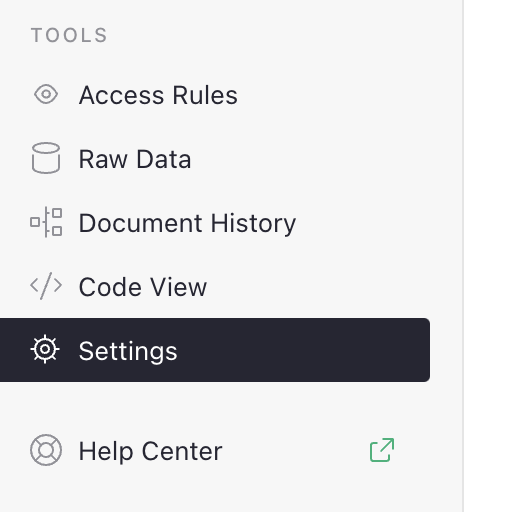
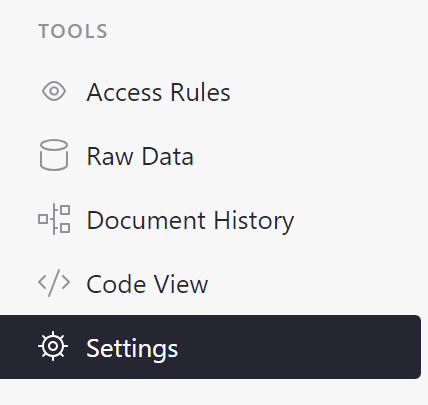
Resizing webhooks screenshots

diff --git a/help/en/docs/webhooks.md b/help/en/docs/webhooks.md
@@ -8,13 +8,13 @@ added to a table or if existing rows are modified.
 
 You can configure webhooks from the 'Document Settings' page. Click 'Settings' under the 'Tools' menu found at the bottom of the left-hand navigation panel while viewing a document.
 
-![webhooks-settings](images/webhooks/settings.png)
+<span class="screenshot-large">*![webhooks-settings](images/webhooks/settings.png)*</span>
 {: .screenshot-half }
 
 Under the 'API' section of 'Document Settings', click on the
 'Manage Webhooks' button.
 
-![webhooks-api-settings](images/webhooks/settings-webhooks.png)
+<span class="screenshot-large">*![webhooks-api-settings](images/webhooks/settings-webhooks.png)*</span>
 {: .screenshot-half }
 
 This will enable you to define webhooks for your document, where each
